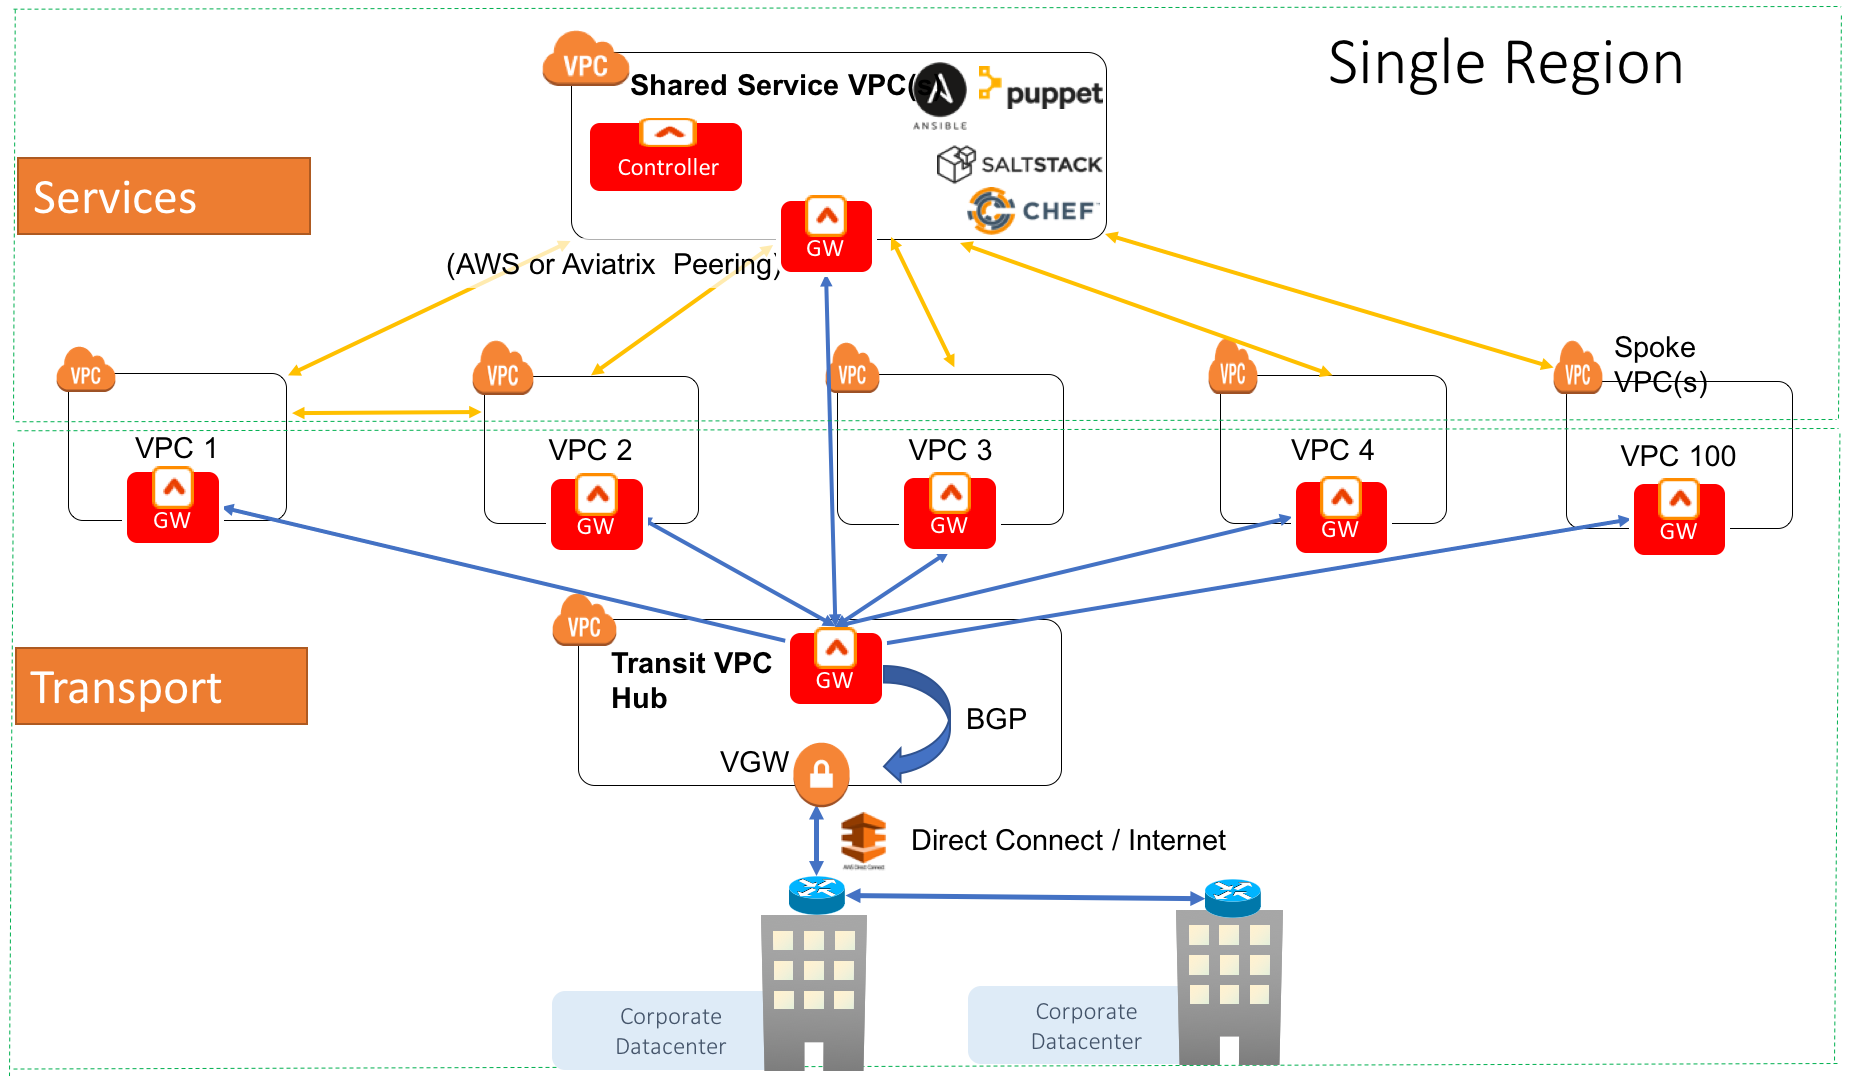
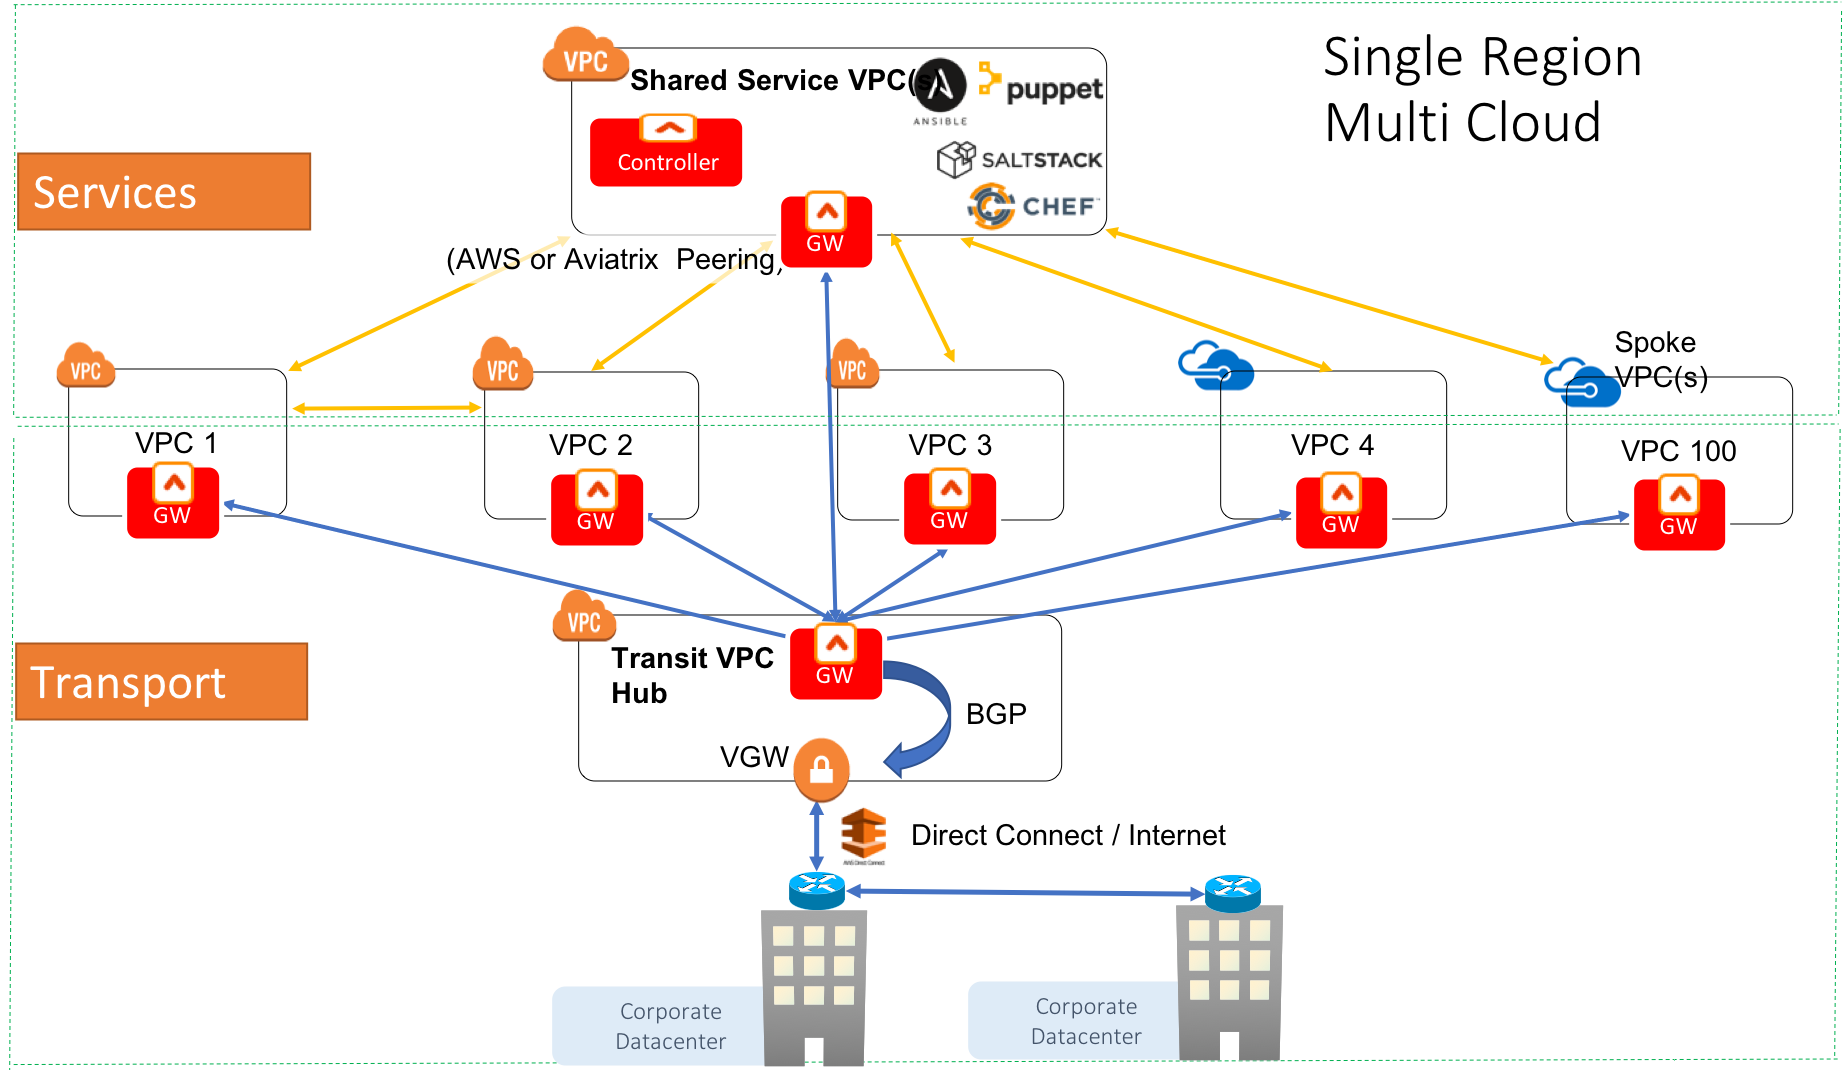
add azure as spoke

diff --git a/HowTos/transitvpc_designs.rst b/HowTos/transitvpc_designs.rst
@@ -31,7 +31,7 @@ Notice Transit GW is only used for traffic between on-prem and cloud (Spoke VPCs
 Shared Service VPC to Spoke VPCs does not go through the Transit GW. Decouple the different traffic streams 
 reduces the performance bottleneck and removes the single failure point. 
 
-.. note::
+.. Tip::
 
   A Spoke VPC can be deployed in a different region and different cloud.
 
